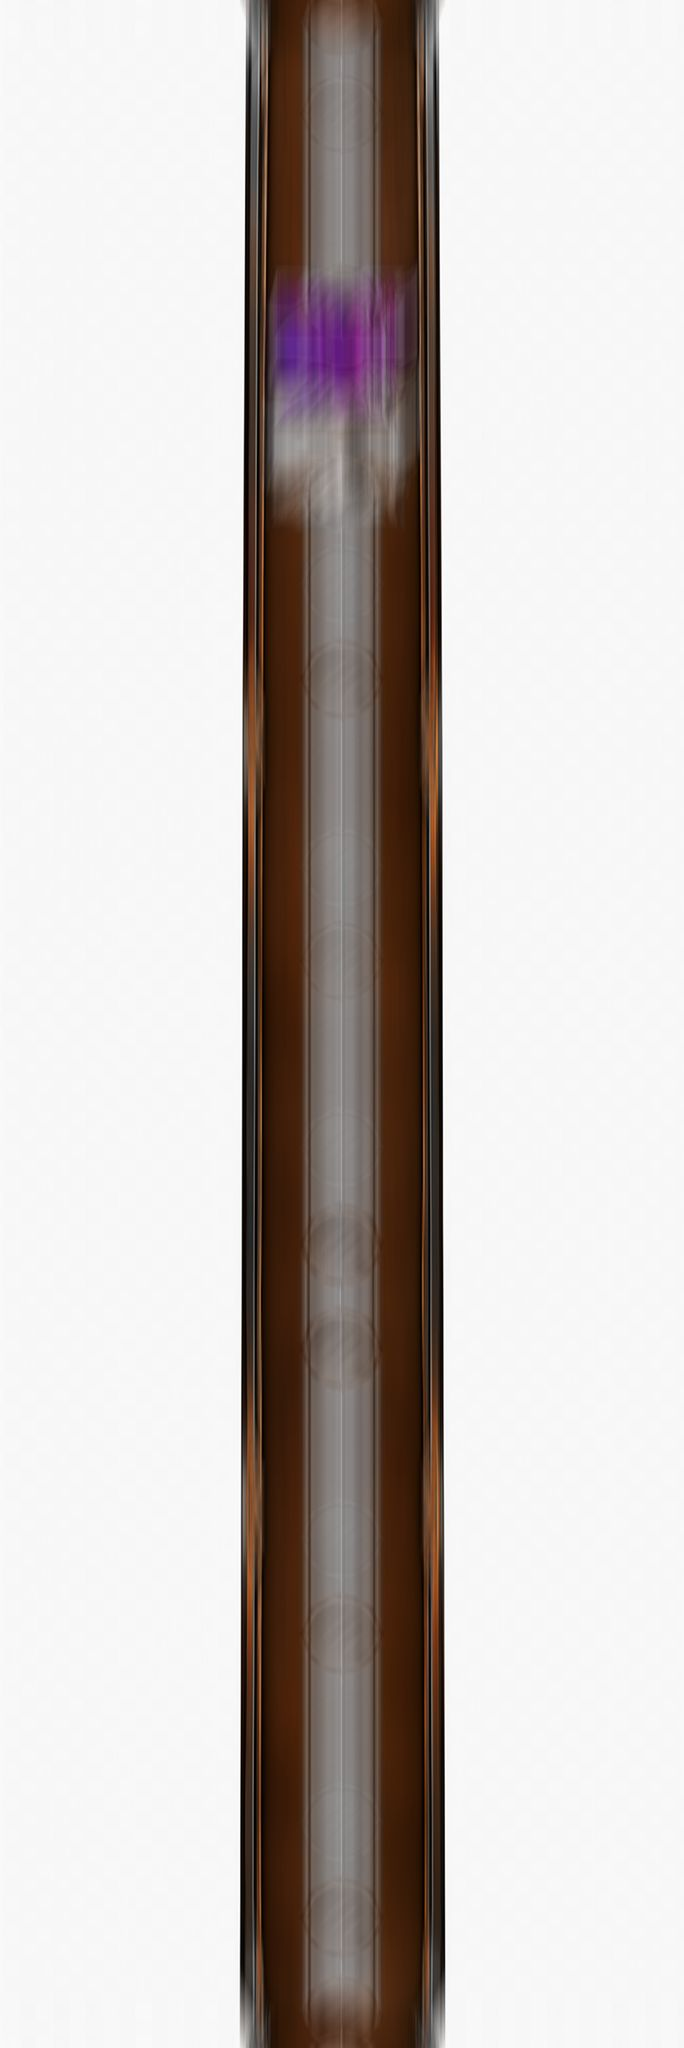
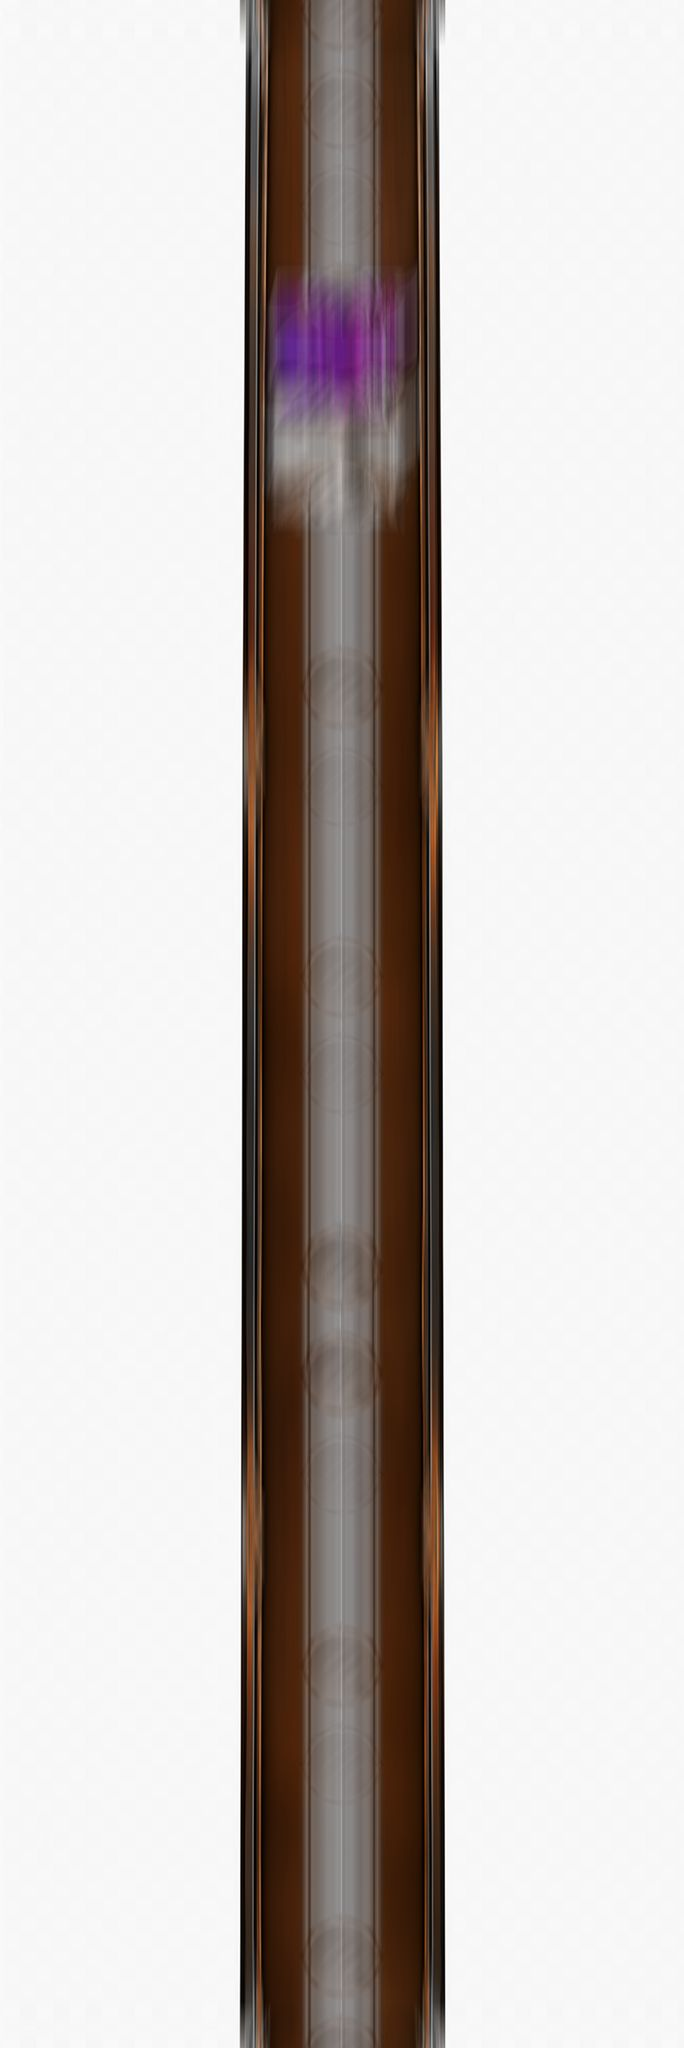
TORAMI RUSH v6: 1回転して止まる・揃うライン/外れ方をランダム化・3×3表示・リール帯のつなぎ目修正
Claude-Session: https://claude.ai/code/session_01CfEbAdSr1Zeg74JTK1dqK1

diff --git a/torecacorp/tora-rush-v6/index.html b/torecacorp/tora-rush-v6/index.html
@@ -515,24 +515,54 @@ addEventListener("resize",resize);
 const tl=new THREE.TextureLoader();const loadTex=f=>new Promise((res,rej)=>tl.load("model/"+f,t=>{t.colorSpace=THREE.SRGBColorSpace;t.anisotropy=4;res(t)},undefined,rej));
 const PIV={y:-18.206274,z:-28.074114},PITCH=Math.PI*2/21,REELX=[-55,0,55],W7=141.2*Math.PI/180;
 // リール帯（L/C/R・21コマ）のコマ番号→角度。コマcを中段に止める角度＝(13-c)×PITCH。上段＝c-1、下段＝c+1
-const CELL=c=>(13-c)*PITCH;
+const CELL_OFF=-0.3; // リール帯を21コマちょうどに切り出したので、コマの中心が少しずれる分の補正
+const CELL=c=>(13-CELL_OFF-c)*PITCH;
 // 7の位置：L＝紫0,1／白10,11　C＝紫3／白4　R＝紫1,2／白11,12（縦2連）
 // シングル＝中段1ラインだけ（L・Rは7が中段＋下段）。ダブル＝中段＋右下がり斜めの2ライン（Lは上段＋中段、Rは中段＋下段）
 // ハズレ＝L・Cは中段に7（テンパイ）。Lは上段＋中段、Rは7が上段（1コマ手前）→ 右上がり斜めも揃わない
 const TG={pS:[0,3,1],pW:[1,3,1],wS:[10,4,11],wW:[11,4,11],missP:[1,3,3],missW:[11,4,13]};
 Object.keys(TG).forEach(k=>TG[k]=TG[k].map(CELL));
 const HOME=[CELL(5),CELL(12),CELL(7)]; // 待機位置：3本ともコインの位置（7が見えない）
+// 止まり方のパターン（11/28）：リール帯から「どのラインに何本揃うか」を全通り計算して、毎回ランダムに選ぶ
+//  シングル＝5ライン（上・中・下・右下がり・右上がり）のどれか1本、ダブル＝2本。ハズレ＝0本で、右リールの外れ方を数パターン
+const STRIP=[{P:[0,1],W:[10,11]},{P:[3],W:[4]},{P:[1,2],W:[11,12]}].map(o=>{const a=Array(21).fill("-");o.P.forEach(c=>a[c]="P");o.W.forEach(c=>a[c]="W");return a});
+const sym=(r,c)=>STRIP[r][((c%21)+21)%21];
+const LINES=[[-1,-1,-1],[0,0,0],[1,1,1],[-1,0,1],[1,0,-1]]; // 上段・中段・下段・右下がり・右上がり
+const LNAME=["上段","中段","下段","右下がり","右上がり"];
+function evalCells(cs){const hit={P:[],W:[]};LINES.forEach((L,li)=>{const a=sym(0,cs[0]+L[0]);if(a!=="-"&&a===sym(1,cs[1]+L[1])&&a===sym(2,cs[2]+L[2]))hit[a].push(li)});
+  const edge=[-2,2].some(o=>{const a=sym(0,cs[0]+o);return a!=="-"&&a===sym(1,cs[1]+o)&&a===sym(2,cs[2]+o)}); // 枠外の段（見える上下2段）にも揃って見えないように
+  return{hit,edge}}
+const PAT={P1:[],P2:[],W1:[],W2:[],missP:{},missW:{}};
+for(let a=0;a<21;a++)for(let b=0;b<21;b++)for(let c=0;c<21;c++){const cs=[a,b,c],e=evalCells(cs);if(e.edge)continue;
+  for(const X of ["P","W"]){const Y=X==="P"?"W":"P";
+    if(e.hit[Y].length)continue;
+    if(e.hit[X].length===1)PAT[X+"1"].push({cs,lines:e.hit[X]});
+    if(e.hit[X].length===2)PAT[X+"2"].push({cs,lines:e.hit[X]});
+    if(e.hit[X].length===0&&!e.hit[Y].length){
+      // テンパイ：L・Cが同じラインに7。右リールの外れ方で分類
+      LINES.forEach((L,li)=>{if(sym(0,a+L[0])!==X||sym(1,b+L[1])!==X)return;const need=c+L[2];
+        const kind=sym(2,need-1)===X?"上に1コマ":sym(2,need+1)===X?"下に1コマ（通過）":(sym(2,need-2)===X||sym(2,need+2)===X)?"2コマずれ":"7が見えない";
+        (PAT["miss"+X][kind]=PAT["miss"+X][kind]||[]).push({cs,line:li})})}}}
+const pickA=a=>a[Math.floor(Math.random()*a.length)];
+const toAng=cs=>cs.map(CELL);
+const MISSW={"上に1コマ":35,"下に1コマ（通過）":30,"2コマずれ":20,"7が見えない":15};
+function pickWin(k){const X=k[0]==="p"?"P":"W",n=k[1]==="W"?2:1,p=pickA(PAT[X+n]);return{ang:toAng(p.cs),line:p.lines.map(i=>LNAME[i]).join("＋")}}
+function pickMiss(X){const M=PAT["miss"+X];let tot=0;const ks=Object.keys(MISSW).filter(k=>M[k]&&M[k].length);ks.forEach(k=>tot+=MISSW[k]);let x=Math.random()*tot,kk=ks[0];for(const k of ks){if((x-=MISSW[k])<0){kk=k;break}}const p=pickA(M[kk]);return{ang:toAng(p.cs),kind:kk,line:LNAME[p.line]}}
 let tex={},machineMat,reels=[],ready=false;
 async function init3d(){
   const [dark,on,bright,rL,rC,rR,bL,bC,bR]=await Promise.all(["slot_dark.jpg","slot_on.jpg","slot_bright.jpg","reel_L.jpg","reel_C.jpg","reel_R.jpg","blur_L.jpg","blur_C.jpg","blur_R.jpg"].map(loadTex));
   tex={dark,on,bright,reels:[{reel:rL,blur:bL},{reel:rC,blur:bC},{reel:rR,blur:bR}]}; // リール帯はL／C／R別（ゆうぽんさん 11/27 版）
   const L=new OBJLoader();const [m,r]=await Promise.all([L.loadAsync("model/Slot_Machine.obj"),L.loadAsync("model/Reel.obj")]);
   machineMat=new THREE.MeshBasicMaterial({map:dark});m.traverse(o=>{if(o.isMesh)o.material=machineMat});scene.add(m);
-  REELX.forEach((x,ri)=>{const g=new THREE.Group();g.position.set(x,PIV.y,PIV.z);const mat=new THREE.MeshBasicMaterial({map:tex.reels[ri].reel});const c=r.clone();c.traverse(o=>{if(o.isMesh)o.material=mat});c.position.set(0,-PIV.y,-PIV.z);g.add(c);scene.add(g);reels.push({g,mat,tex:tex.reels[ri],ang:HOME[reels.length],w:0,state:"idle"});g.rotation.x=HOME[reels.length-1]});
-  resize();ready=true;window.RUSH_DBG={reels,PITCH,TG,HOME};idle();
+  REELX.forEach((x,ri)=>{const g=new THREE.Group();g.position.set(x,PIV.y,PIV.z);const mat=new THREE.MeshBasicMaterial({map:tex.reels[ri].reel});fade3x3(mat);const c=r.clone();c.traverse(o=>{if(o.isMesh)o.material=mat});c.position.set(0,-PIV.y,-PIV.z);g.add(c);scene.add(g);reels.push({g,mat,tex:tex.reels[ri],ang:HOME[reels.length],w:0,state:"idle"});g.rotation.x=HOME[reels.length-1]});
+  resize();ready=true;window.RUSH_DBG={reels,PITCH,TG,HOME,PAT:()=>PAT,pickWin,pickMiss};idle();
 }
 init3d().catch(e=>{$("idleMsg").textContent="3Dの読み込みに失敗しました："+e.message});
 let lightSeq=null;
+// 3×3だけ見せる（11/28）：中段から±1.5コマより外側のリール面を暗くする（リールの奥に沈んで見える）
+function fade3x3(mat){mat.onBeforeCompile=sh=>{sh.vertexShader=sh.vertexShader.replace("#include <common>","#include <common>\nvarying vec3 vWp;").replace("#include <project_vertex>","#include <project_vertex>\nvWp=(modelMatrix*vec4(transformed,1.0)).xyz;");
+  sh.fragmentShader=sh.fragmentShader.replace("#include <common>","#include <common>\nvarying vec3 vWp;").replace("#include <map_fragment>",`#include <map_fragment>
+  float ang=atan(vWp.y-(${PIV.y.toFixed(5)}),vWp.z-(${PIV.z.toFixed(5)}));float f=smoothstep(${(PITCH*1.47).toFixed(5)},${(PITCH*1.6).toFixed(5)},abs(ang));diffuseColor.rgb*=1.0-0.985*f;`)}}
 function setLight(k){if(!machineMat)return;machineMat.map=tex[k];machineMat.needsUpdate=true}
 function flicker(){const t0=performance.now();const L=$("led");if(L){L.classList.remove("on");void L.offsetWidth;L.classList.add("on")}lightSeq=t=>{const e=t-t0;if(e>1600){setLight("bright");lightSeq=null;return}setLight(Math.floor(e/(e<900?70:140))%2?"dark":"bright")}}
 // 揃ったあとはリールを初期位置に戻す（次のゲームは毎回同じ位置から回す）
@@ -548,13 +578,17 @@ function slamAll(targets){const t0=performance.now();reels.forEach((r,i)=>{const
 function requestStop(i,target,dur){const r=reels[i];if(r.state==="idle"||r.state==="stopping"||r.state==="stopped")return;const w=Math.max(r.w,MAXW*0.6);let D=norm(target-r.ang);while(D<w*dur*0.55)D+=Math.PI*2;r.stop={a0:r.ang,D,t0:performance.now(),dur:dur*1000};r.state="stopping"}
 const easeOutBack=p=>{const c1=1.15,c3=c1+1;return 1+c3*Math.pow(p-1,3)+c1*Math.pow(p-1,2)};
 const easeSlam=p=>{const c1=2.6,c3=c1+1;return 1+c3*Math.pow(p-1,3)+c1*Math.pow(p-1,2)};
+// 1回転して止める（11/28）：一気に1周回ってから、少し行き過ぎて戻る
+const FULL_MS=600;
+function fullEase(p,D){const O=PITCH*0.14;if(p<0.84){const q=p/0.84;return(D+O)*(1-Math.pow(1-q,3))}const q=(p-0.84)/0.16;return D+O*(1-q*q*(3-2*q))}
+function spinStopAll(targets){const t0=performance.now();reels.forEach((r,i)=>{const tg=targets[i];const D=norm(tg-r.ang)+Math.PI*2;r.stop={a0:r.ang,D,t0,dur:FULL_MS/SPD,full:true};r.state="stopping"})}
 let lastT=performance.now();
 function loop(t){const dt=Math.min(0.05,(t-lastT)/1000);lastT=t;
   if(ready){reels.forEach((r,i)=>{
     if(r.state==="accel"){r.w=Math.min(MAXW,r.w+MAXW*dt/0.25);if(r.w>=MAXW)r.state="spin";r.ang+=r.w*dt}
     else if(r.state==="spin"){r.ang+=r.w*dt}
     else if(r.state==="shake"){const e=(t-r.sh0)/1000;r.ang=r.base+Math.sin(e*62+i*1.7)*0.045+Math.sin(e*23+i)*0.025}
-    else if(r.state==="stopping"){const s=r.stop;const p=Math.min(1,(t-s.t0)/s.dur);r.ang=s.a0+s.D*(s.slam?easeSlam(p):easeOutBack(p));r.w=MAXW*(1-p);if(p>=1){r.state="stopped";r.w=0;r.ang=norm(r.ang);onStop(i)}}
+    else if(r.state==="stopping"){const s=r.stop;const p=Math.min(1,(t-s.t0)/s.dur);r.ang=s.full?s.a0+fullEase(p,s.D):s.a0+s.D*(s.slam?easeSlam(p):easeOutBack(p));r.w=MAXW*(1-p);if(p>=1){r.state="stopped";r.w=0;r.ang=norm(r.ang);onStop(i)}}
     if(r.home){const p=Math.min(1,(t-r.home.t0)/320);const to=r.home.to||0;let d=((to-r.home.a0)%(Math.PI*2)+Math.PI*3)%(Math.PI*2)-Math.PI;r.ang=r.home.a0+d*(1-Math.pow(1-p,3));if(p>=1){r.ang=to;r.home=null}}
     r.g.rotation.x=r.ang;
     const fast=r.state==="spin"||(r.state==="accel"&&r.w>MAXW*0.5)||(r.state==="stopping"&&!r.stop.slam&&r.w>MAXW*0.55);const m=fast?r.tex.blur:r.tex.reel;if(r.mat.map!==m){r.mat.map=m;r.mat.needsUpdate=true}});
@@ -614,9 +648,9 @@ function timeline(){if(!running||!step)return;
   if(step.k!=="win")return;const el=els[cur];if(!el.classList.contains("show"))return;
   const vt=el.currentTime,C=CLIP[step.clip];
   if(!step.fist&&vt>=3.1){step.fist=true;sfx("devilrush",.8);sfx("punch",.9)} // 継続の拳突き上げ（7のあとに虎美が拳を上げる場面）
-  if(!step.stops[0]&&vt>=C.flash-1.0){step.stops[0]=true;shakeAll(step.target);if(C.miss)reels[2].base=reels[2].ang=step.target[2]-PITCH*0.6;sfx(Math.random()<.5?"reellock_t1":"reellock_t2")}
-  if(C.miss){if(!step.stops[1]&&vt>=C.flash-0.1){step.stops[1]=true;slamAll(step.target); /* 右リールの7は1コマ手前（上段の上）で止まる */stopSfx("reellock_t1");stopSfx("reellock_t2");setTimeout(()=>{if(!running)return;setLight("dark");$("dim").classList.add("on");callout("RUSH 終了<small>7揃わず</small>")},420)}return}
-  if(!step.stops[1]&&vt>=C.flash-0.1){step.stops[1]=true;slamAll(step.target);stopSfx("reellock_t1");stopSfx("reellock_t2");sfx("s777");
+  if(!step.stops[0]&&vt>=C.flash-1.0){step.stops[0]=true;shakeAll(step.target);sfx(Math.random()<.5?"reellock_t1":"reellock_t2")}
+  if(C.miss){if(!step.stops[1]&&vt>=C.flash-FULL_MS/1000){step.stops[1]=true;spinStopAll(step.target); /* 1回転してハズレ（右リールの外れ方はパターンから） */stopSfx("reellock_t1");stopSfx("reellock_t2");setTimeout(()=>{if(!running)return;setLight("dark");$("dim").classList.add("on");callout("RUSH 終了<small>7揃わず</small>")},420+FULL_MS/SPD)}return}
+  if(!step.stops[1]&&vt>=C.flash-FULL_MS/1000){step.stops[1]=true;spinStopAll(step.target);stopSfx("reellock_t1");stopSfx("reellock_t2");setTimeout(()=>{if(running)sfx("s777")},FULL_MS/SPD-40);
     if(step.clip==="rainbow")sfx("rainbow05",.9);else if(step.clip==="gold")setTimeout(()=>sfx("v_tempai"),500)}}
 function onStop(i){if(!running||!step)return;
   if(step.k==="win"&&i===2&&step.clip!=="miss"){flicker();if(step.add!=null){plan.total+=step.add;flyScore(step.add,step.lab||"",plan.total)}}
@@ -632,11 +666,13 @@ function runRev(s){const R=s.rev,d=x=>x/SPD;setWait(false);banner("");setLight("
   const ov=$("revov"),T=R.type==="push"?["7を狙え！","揃えば SCORE ×2"]:["輪廻転生","復活すれば SCORE ×2"];
   ov.className="revov on lv-"+LV[R.lv].k;ov.innerHTML=`<i>期待度 ${LV[R.lv].n}</i><b>${T[0]}</b><small>${T[1]}</small>`;heartbeat(R.lv>=2?3:2);
   setTimeout(()=>{if(!running||step!==s)return;[0,1,2].forEach(spin);sfx("tempai")},d(1000));
-  setTimeout(()=>{if(!running||step!==s)return;shakeAll(TG.wW);sfx("reellock_t2")},d(2100));
+  const TW=R.ok?pickWin("wW").ang:pickMiss("W").ang;
+  setTimeout(()=>{if(!running||step!==s)return;shakeAll(TW);sfx("reellock_t2")},d(2100));
   setTimeout(()=>{if(!running||step!==s)return;stopSfx("reellock_t2");ov.className="revov";
-    if(R.ok){slamAll(TG.wW);sfx("s777");setTimeout(()=>{if(!running)return;$("dim").classList.remove("on");flicker();sfx("voltageup",.8);callout(`${R.type==="push"?"倍プッシュ":"転生"}成功！<small>SCORE ×2</small>`);plan.total+=s.add;flyScore(s.add,R.type==="push"?"倍プッシュ":"輪廻転生",plan.total)},180)}
-    else{slamAll(TG.missW);setTimeout(()=>{if(!running)return;sfx("v_madamada");callout("失敗…<small>SCORE そのまま</small>")},220)}
-    setTimeout(()=>{if(running&&step===s)next()},d(R.ok?2600:1800))},d(3000))}
+    spinStopAll(TW);
+    if(R.ok){setTimeout(()=>sfx("s777"),d(FULL_MS-40));setTimeout(()=>{if(!running)return;$("dim").classList.remove("on");flicker();sfx("voltageup",.8);callout(`${R.type==="push"?"倍プッシュ":"転生"}成功！<small>SCORE ×2</small>`);plan.total+=s.add;flyScore(s.add,R.type==="push"?"倍プッシュ":"輪廻転生",plan.total)},d(FULL_MS)+180)}
+    else{setTimeout(()=>{if(!running)return;sfx("v_madamada");callout("失敗…<small>SCORE そのまま</small>")},d(FULL_MS)+220)}
+    setTimeout(()=>{if(running&&step===s)next()},d(FULL_MS+(R.ok?2600:1800)))},d(3000))}
 function runChall(s){banner("");setWait(false);setLight("on");
   // reels already spinning (tap). stop by wall clock
   setTimeout(()=>{if(!running)return;shakeAll(s.target);sfx("reellock_t2")},900);
@@ -820,13 +856,13 @@ $("drawS").addEventListener("click",()=>doDraw(true,null,true));
 $("mulBtn").addEventListener("click",()=>doDraw(false,+$("mulSel").value,true));
 $("scnSel").addEventListener("change",()=>{if(last&&last.c){last.c=compose(last.t.u,VALS[rate],+$("scnSel").value<0?pickScn():+$("scnSel").value);build(last)}});
 function poTxt(po,score){return po.kind==="feat"?`<span class="mid">目玉景品</span> ${po.name}（${fmt(score)}PT・優先払い出し）`:po.kind==="coin"?`ポイント ${fmt(score)}（1万未満のため自動で付与）`:po.kind==="ptonly"?`ポイント ${fmt(score)}（${man(po.tier)}帯の景品が在庫切れのため、ポイントのみ・発送不可）`:po.name}
-function build(L){const {R,t,score,c,po}=L;
+function build(L){const {R,t,score,c,po}=L;let PM;
   const steps=[];
   steps.push({k:"play",f:"freeze",l:"プチュン",sfx:[["puchun",0,.9]]},{k:"play",f:"op",l:"OP",bgm:true,vsfx:[["v_miseteyaru",0.05],["v_attack",1.97]]});
   c.games.forEach((g,i)=>{const s=SYM[g.k];
     steps.push({k:"play",f:"lead",l:`${i+1}ゲーム目 導入`},{k:"wait",f:"loop",l:`${i+1}ゲーム目 押せ！`});
-    steps.push({k:"win",f:CLIP[s.clip].f,clip:s.clip,target:s.t,add:g.v,lab:s.n,l:`${i+1}G ${s.n}`,freeze:s.d&&Math.random()*100<(STATE.freezeP??25)})});
-  const nE=c.games.length+1;steps.push({k:"play",f:"lead",l:`${nE}ゲーム目 導入`},{k:"wait",f:"loop",l:`${nE}ゲーム目 押せ！`},{k:"win",f:"miss",clip:"miss",target:SYM[c.games[c.games.length-1].k].t===TG.wS||SYM[c.games[c.games.length-1].k].t===TG.wW?TG.missW:TG.missP,l:`${nE}G ハズレ → 終了`});
+    const pw=pickWin(g.k);steps.push({k:"win",f:CLIP[s.clip].f,clip:s.clip,target:pw.ang,line:pw.line,add:g.v,lab:s.n,l:`${i+1}G ${s.n}（${pw.line}）`,freeze:s.d&&Math.random()*100<(STATE.freezeP??25)})});
+  const nE=c.games.length+1;steps.push({k:"play",f:"lead",l:`${nE}ゲーム目 導入`},{k:"wait",f:"loop",l:`${nE}ゲーム目 押せ！`},{k:"win",f:"miss",clip:"miss",target:(PM=pickMiss(Math.random()<.5?"P":"W")).ang,l:`${nE}G ハズレ（右リール${PM.kind}）→ 終了`});
   steps.push({k:"play",f:c.games[c.games.length-1].k==="wW"?"total":"total_green",l:"TOTAL",bgmOff:true,vsfx:[["jingle",0.0],["v_result",0.82]]});
   if(c.rev)steps.push({k:"rev",rev:c.rev,add:c.rev.ok?score-c.rev.base:0,l:(c.rev.type==="push"?"倍プッシュ":"輪廻転生")+"（"+LV[c.rev.lv].n+"）"+(c.rev.ok?"成功":"失敗")});
   const cnt={};c.games.forEach(g=>cnt[g.k]=(cnt[g.k]||0)+1);const mul=t.u/10;
@@ -834,7 +870,7 @@ function build(L){const {R,t,score,c,po}=L;
     po.kind==="ptonly"?`<div class="rw" style="font-size:15px"><span>ポイント</span><b>${fmt(score)}</b></div><div style="font-size:11.5px;opacity:.85">この価格帯の景品が在庫切れのため、ポイントで付与しました（発送不可）</div>`:
     `${po.kind==="feat"?'<div style="text-align:center;color:#ffd36b;font-weight:900;letter-spacing:.1em;margin-top:4px">★ 目玉景品 ★</div>':""}<div class="prize" style="font-size:15px"><span>${po.name}</span><b>${fmt(score)}PT</b></div>
     <div style="display:flex;gap:8px;margin-top:8px"><button class="closebtn" style="margin:0;background:#fff;color:#111" type="button" data-pick="ship">発送する</button><button class="closebtn" style="margin:0" type="button" data-pick="coin">ポイントにする（${fmt(score)}）</button></div><div id="pickMsg" style="font-size:12px;margin-top:6px;text-align:center"></div>`;
-  plan={steps,total:0,fullTotal:c.rev&&c.rev.ok?c.rev.base:score,mul,lastTarget:SYM[c.games[c.games.length-1].k].t,hud:()=>`SCORE ${fmt(plan.total)}`,
+  plan={steps,total:0,fullTotal:c.rev&&c.rev.ok?c.rev.base:score,mul,lastTarget:steps.filter(x=>x.k==="win"&&x.clip!=="miss").pop().target,hud:()=>`SCORE ${fmt(plan.total)}`,
     idleText:`<b>レート ${fmt(R.r)}</b><br>SCORE ${fmt(score)}（${mulTxt(mul)}）<br>${SCN[c.si].n}・${c.games.length}ゲーム<br><span style="font-size:11px;opacity:.8">STARTで再生</span>`,
     result:()=>`<div style="text-align:center;opacity:.8">TORAMI RUSH 結果</div><div class="big">SCORE ${fmt(score)}</div><div class="mul">購入 ${fmt(R.r)} coin の ${mulTxt(mul)}</div>
       ${["pS","pW","wS","wW"].filter(k=>cnt[k]).map(k=>`<div class="rw"><span>${SYM[k].n}</span><span>×${cnt[k]}</span></div>`).join("")}${c.rev&&c.rev.ok?`<div class="rw" style="color:#ffd36b;font-weight:900"><span>${c.rev.type==="push"?"倍プッシュ":"輪廻転生"}</span><span>SCORE ×2</span></div>`:""}
